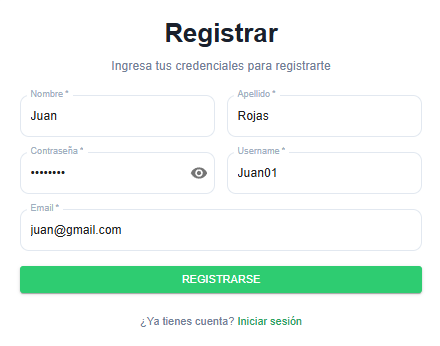
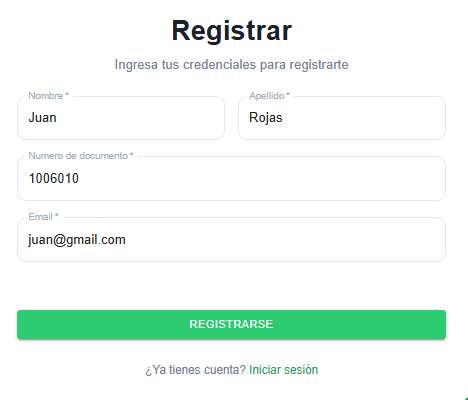
"cambios en manual de usuario"

diff --git a/manual_agrosoft/src/content/docs/modules/usuarios/Log-in.md b/manual_agrosoft/src/content/docs/modules/usuarios/Log-in.md
@@ -6,34 +6,34 @@ description: "Como administrar roles de un usuario en el modulo de usuarios en A
 
 #  Ingreso al sistema 
 **A continuación se presentan las principales funcionalidades relacionadas con el acceso al sistema:**
-# Inicio de sesión:
+## Inicio de sesión:
 Una vez realizada la configuración y el despliegue del sistema, el usuario podrá acceder al sistema mediante una interfaz de inicio de sesión. Para iniciar la aplicación, el usuario debe ingresar:
- - **correo y contraseña**, en caso de estar previamente registrado
-   Si la autenticación es exitosa, el sistema lo redirige al panel principal del sistema en los campos designados. 
+ - **Numero de documento y contraseña**, en caso de estar previamente registrado
+   Si la autenticación es exitosa, el sistema lo redirige al panel principal. 
 
 
 <img src="/public/CompletoLOG.png" alt="Gestión de usuarios" style="display: block; margin: auto; width: 80%; border-radius: 12px;" />
 
-# Usuario creado por defecto:
+## 1 Usuario creado por defecto:
 
 Al iniciar la aplicación se crea un usuario con permisos de administrador por defecto el cual se crea automaticamente, esto para facilitar la interacción de los usuarios nuevos con el sistema y evitar conflictos de permisos, al estar en **Iniciar sesión** usa estas credenciales:
-- Correo: **admin01@gmail.com**
+- Numero de documento: **123456**
 - Contraseña: **admin**
 - Haz click en **Ingresar**
 - Ejemplo de uso:
-<img src="/public/log-in2.png" alt="Gestión de usuarios" style="display: block; margin: auto; width: 90%; border-radius: 12px;" />
+<img src="/public/log-in2.png" alt="Gestión de usuarios" style="display: block; margin: auto; width: 70%; border-radius: 12px;" />
 
 con este admin podrás registrar y administrar todo tipo de información y adminstrarla sin restricciones 
 eso incluye registrar otros usuarios y definir sus permisos en el sistema.
 
-## Registro de nuevos usuarios:
-- 2.Si deseas registrate en el sistema debes dirigirte a la parte inferior del registro, busca esto:
+## 2 Registro de nuevos usuarios:
+- .Si deseas registrate en el sistema debes dirigirte a la parte inferior del registro, busca esto:
  ¿No estas registrado? **Regístrate** :
-<img src="/public/log-3.png" alt="Gestión de usuarios" style="display: block; margin: auto; width: 50%; border-radius: 12px;" />
+<img src="/public/log-3.png" alt="Gestión de usuarios" style="display: block; margin: auto; width: 70%; border-radius: 12px;" />
 
  Tendras una vista del formulario de registro de usuarios:
 
-<img src="/public/registro1.png" alt="Gestión de usuarios" style="display: block; margin: auto; width: 60%; border-radius: 12px;" />
+<img src="/public/registro1.png" alt="Gestión de usuarios" style="display: block; margin: auto; width: 70%; border-radius: 12px;" />
 
 - Ejemplo de uso:
 
@@ -41,19 +41,20 @@ eso incluye registrar otros usuarios y definir sus permisos en el sistema.
 - Si el formulario fue diligenciado de una forma correcta, podra ver este mensaje:
 
 - **"Usuario registrado correctamente"**
-<img src="/public/registro3.png" alt="Gestión de usuarios" style="display: block; margin: auto; width: 60%; border-radius: 12px;" />
+<img src="/public/registro3.png" alt="Gestión de usuarios" style="display: block; margin: auto; width: 80%; border-radius: 12px;" />
 
 ## ✖ Errores al registrar:
 - **Credenciales unicas**
 
- Cada ususario tiene datos unicos, no puedes usar credenciales(username, correo)    
+ Cada ususario tiene datos unicos, no puedes usar credenciales(**Numero de documento, correo**)    
  ya registradas en otro usuario previamente
  - el sistema marcará si la información ingresada ya esta en uso
  - corrige la información ingresada para que proceso siga su curso correctamente
 
-<img src="/public/registroerror1.png" alt="Gestión de usuarios" style="display: block; margin: auto; width: 70%; border-radius: 12px;" />
+<img src="/public/registroerror1.png" alt="Gestión de usuarios" style="display: block; margin: auto; width: 80%; border-radius: 12px;" />
 
 - **Formulario incompleto**
+- **❗Llenar todos los campos es OBLIGATORIO**
 
 Los Datos requeridos por el Formulario de registro son obligatorios y necesarios para el correcto registro del usuario, al omitir alguno de los campos no se podrá realizar el registro 
 
@@ -63,33 +64,40 @@ Los Datos requeridos por el Formulario de registro son obligatorios y necesarios
 <img src="/public/registroerror2.png" alt="Gestión de usuarios" style="display: block; margin: auto; width: 80%; border-radius: 12px;" />
 
 
+- **Restricciones de los campos**
+Los campos siguen una norma que debe ser respetada:
   Para crear una cuenta, los datos deben cumplir estos requisitos:
-- **Nombre**: Unicamente ingresa texto, sin números o caracteres especiales 
+- **Nombre y Apellido**: Unicamente ingresa texto, sin números o caracteres especiales 
 - ⚠Solo ingresa texto, evita ingresar numeros:(1-2-3)
 - ⚠Solo ingresa texto, evita ingresar Caracteres especiales:(+#&%)
-- **Apellido**: Unicamente ingresa texto, sin números o caracteres especiales 
-- ⚠Solo ingresa texto, evita ingresar numeros:(1-2-3)
-- ⚠Solo ingresa texto, evita ingresar Caracteres especiales:(+#&%)
-- **Contraseña**: usa una contraseña segura con caracteres variados que te sea faclíl de recordar.
-- **Username**: Nombre de usuario el cual puedes personalizar libremente.
+- **Numero de documento**:Solo ingresa números
 - **Email**: Dirección de correo electronico
-- Siguiendo los requisitos podrás registrate facilmente.
-- ❗**Rol**: Este campo es asignado automaticamente por el sistema bajo el rol de **Aprendiz** este rol puede ser cambiado unicamente por un **Adminstrador** 
+- ✅ Siguiendo los requisitos podrás registrate facilmente.
+<img src="/public/registroerror4.png" alt="Gestión de usuarios" style="display: block; margin: auto; width: 90%; border-radius: 12px;" />
 
+## ¿Cual es mi contraseña?
+- **Tu contraseña esta compuesta de elementos de tu registro**
+- **Primer letra de tu nombre + Número de documento**
+- **Ejemplo**:
+- Generación de contraseñas:
 
-# Recuperación de contraseña: 
+| Nombre      | Apellido | Correo | Numero Documento |Contraseña |
+|-------------|-------------|-------------|-------------|-------------|
+| **Juan**   | **Rojas**  |`Jrojas@gmail.com`  | 100508320| J100508320
+
+## Recuperación de contraseña: 
 Si el usuario olvida su contraseña,en el formulario de **Incio de sesión**.
 
 tiene la opción de hacer clic en **"¿Olvidó su contraseña?"**
 
-<img src="/public/recuperacion1.png" alt="Gestión de usuarios" style="display: block; margin: auto; width: 40%; border-radius: 12px;" />
+<img src="/public/recuperacion1.png" alt="Gestión de usuarios" style="display: block; margin: auto; width: 80%; border-radius: 12px;" />
 
 Al hacerlo, se le pedirá que ingrese su **Correo electrónico** este correo electronico debe pertenecer a tu cuenta.
-<img src="/public/recuperacion.png" alt="Gestión de usuarios" style="display: block; margin: auto; width: 70%; border-radius: 12px;" />
+<img src="/public/recuperacion.png" alt="Gestión de usuarios" style="display: block; margin: auto; width: 80%; border-radius: 12px;" />
 
  El sistema enviará un código de verificación al correo del usuario, permitiéndole obtener el link para restablecer la contraseña.
  - Si el correo que enviaste es valido, verás un mensaje como este:
-<img src="/public/recuperacion3.png" alt="Gestión de usuarios" style="display: block; margin: auto; width: 70%; border-radius: 12px;" />
+<img src="/public/recuperacion3.png" alt="Gestión de usuarios" style="display: block; margin: auto; width: 60%; border-radius: 12px;" />
 
 encontrará este mensaje en su correo, el cual contiene el link para el restablecimiento de su contraseña:
 <img src="/public/recuperacion4.png" alt="Gestión de usuarios" style="display: block; margin: auto; width: 90%; border-radius: 12px;" />
@@ -101,19 +109,19 @@ Al dar click al link de recuperación, sera llevado a un formulario para ingresa
 <img src="/public/recuperacion5.png" alt="Gestión de usuarios" style="display: block; margin: auto; width: 70%; border-radius: 12px;" />
 
 Al dar click en **Restablecer** podra ver el siguiente mensaje:
-<img src="/public/recuperacion6.png" alt="Gestión de usuarios" style="display: block; margin: auto; width: 50%; border-radius: 12px;" />
+<img src="/public/recuperacion6.png" alt="Gestión de usuarios" style="display: block; margin: auto; width: 60%; border-radius: 12px;" />
 
 El restablecimiento de su contraseña ha sido exitoso✅.
 
 ## ✖ Errores al restablecer contraseña:
 
 **Correo no valido**
-- Usar un correo que NO esta registrado en el sistema:
-si el correo que proporcionaste para la recuperación no esta registrado en el sistema verás un mensaje como este:
+- **Usar un correo que NO esta registrado en el sistema:**
+- si el correo que proporcionaste para la recuperación no esta registrado en el sistema verás un mensaje como este:
 <img src="/public/recuperacion7.png" alt="Gestión de usuarios" style="display: block; margin: auto; width: 100%; border-radius: 12px;" />
 
 **link no valido**
-- El link que llega a tu correo tiene una vigencia de **5 minutos** pasado ese tiempo no podrás realizar el restablecimiento:
+- El link que llega a tu correo tiene una vigencia de **10 minutos** pasado ese tiempo no podrás realizar el restablecimiento:
 <img src="/public/recuperacion9.png" alt="Gestión de usuarios" style="display: block; margin: auto; width: 100%; border-radius: 12px;" />
 
 Ten en cuenta el tiempo que ha pasado desde que se generó el link:
